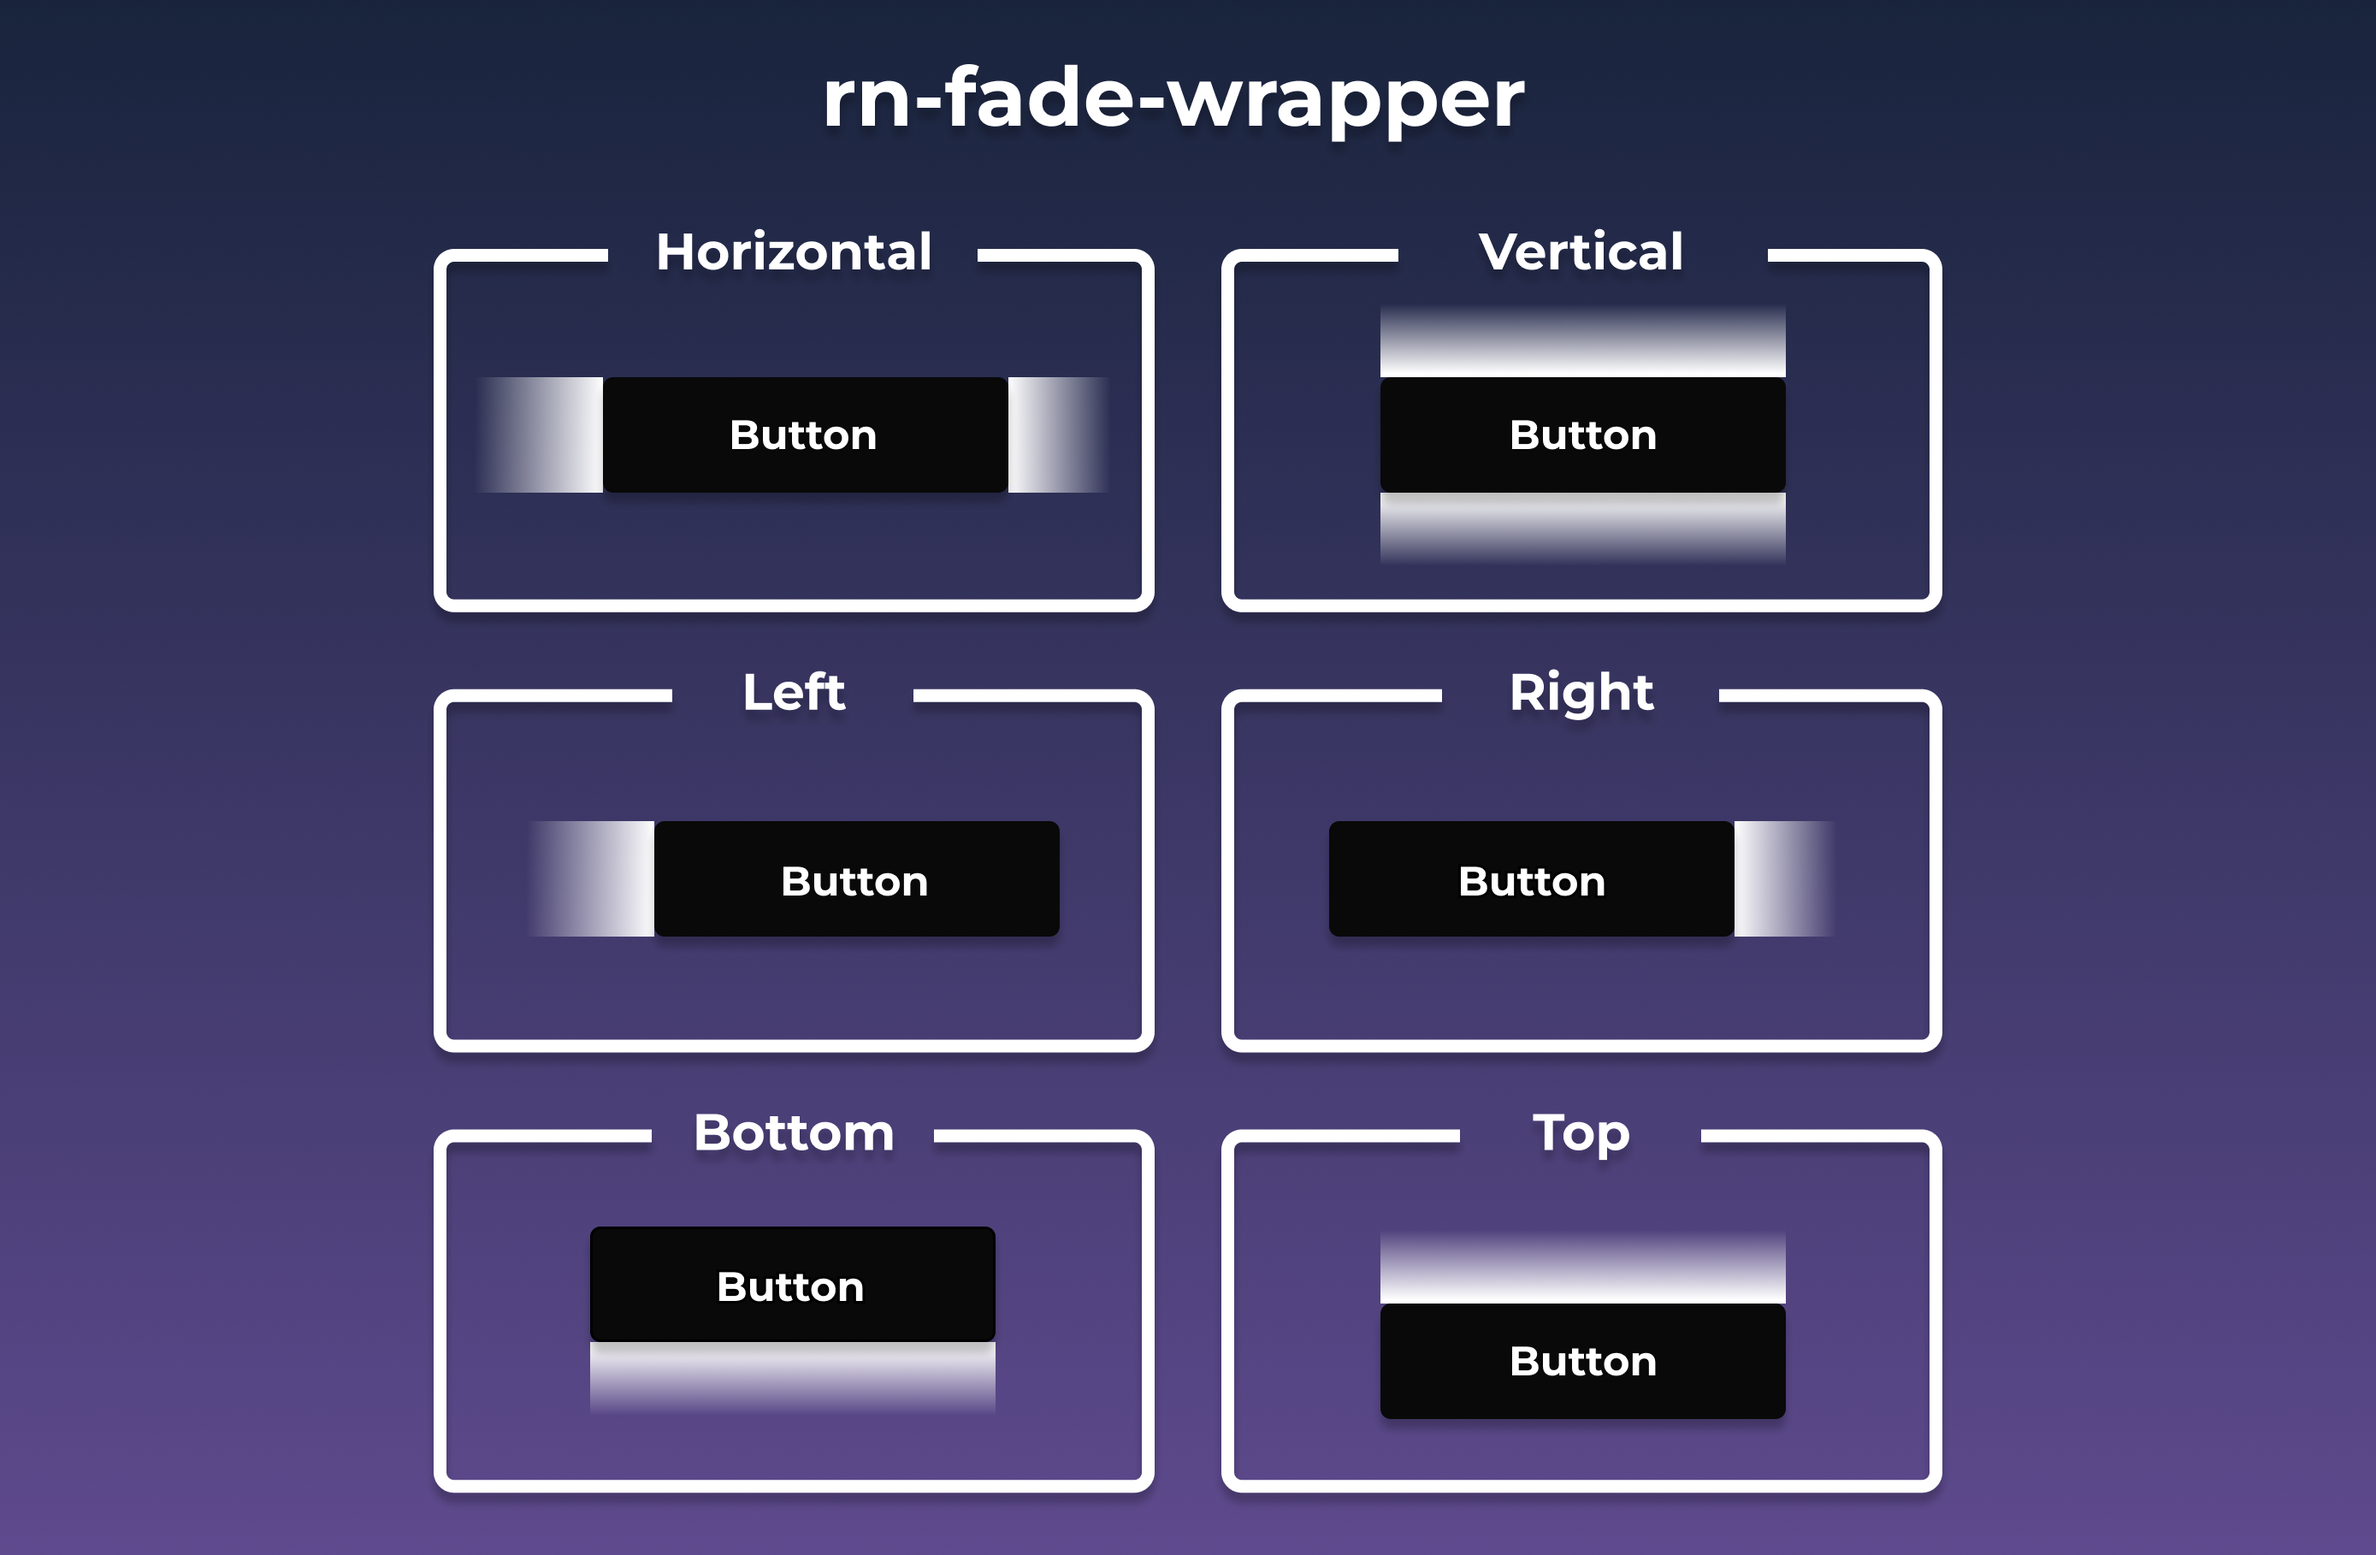
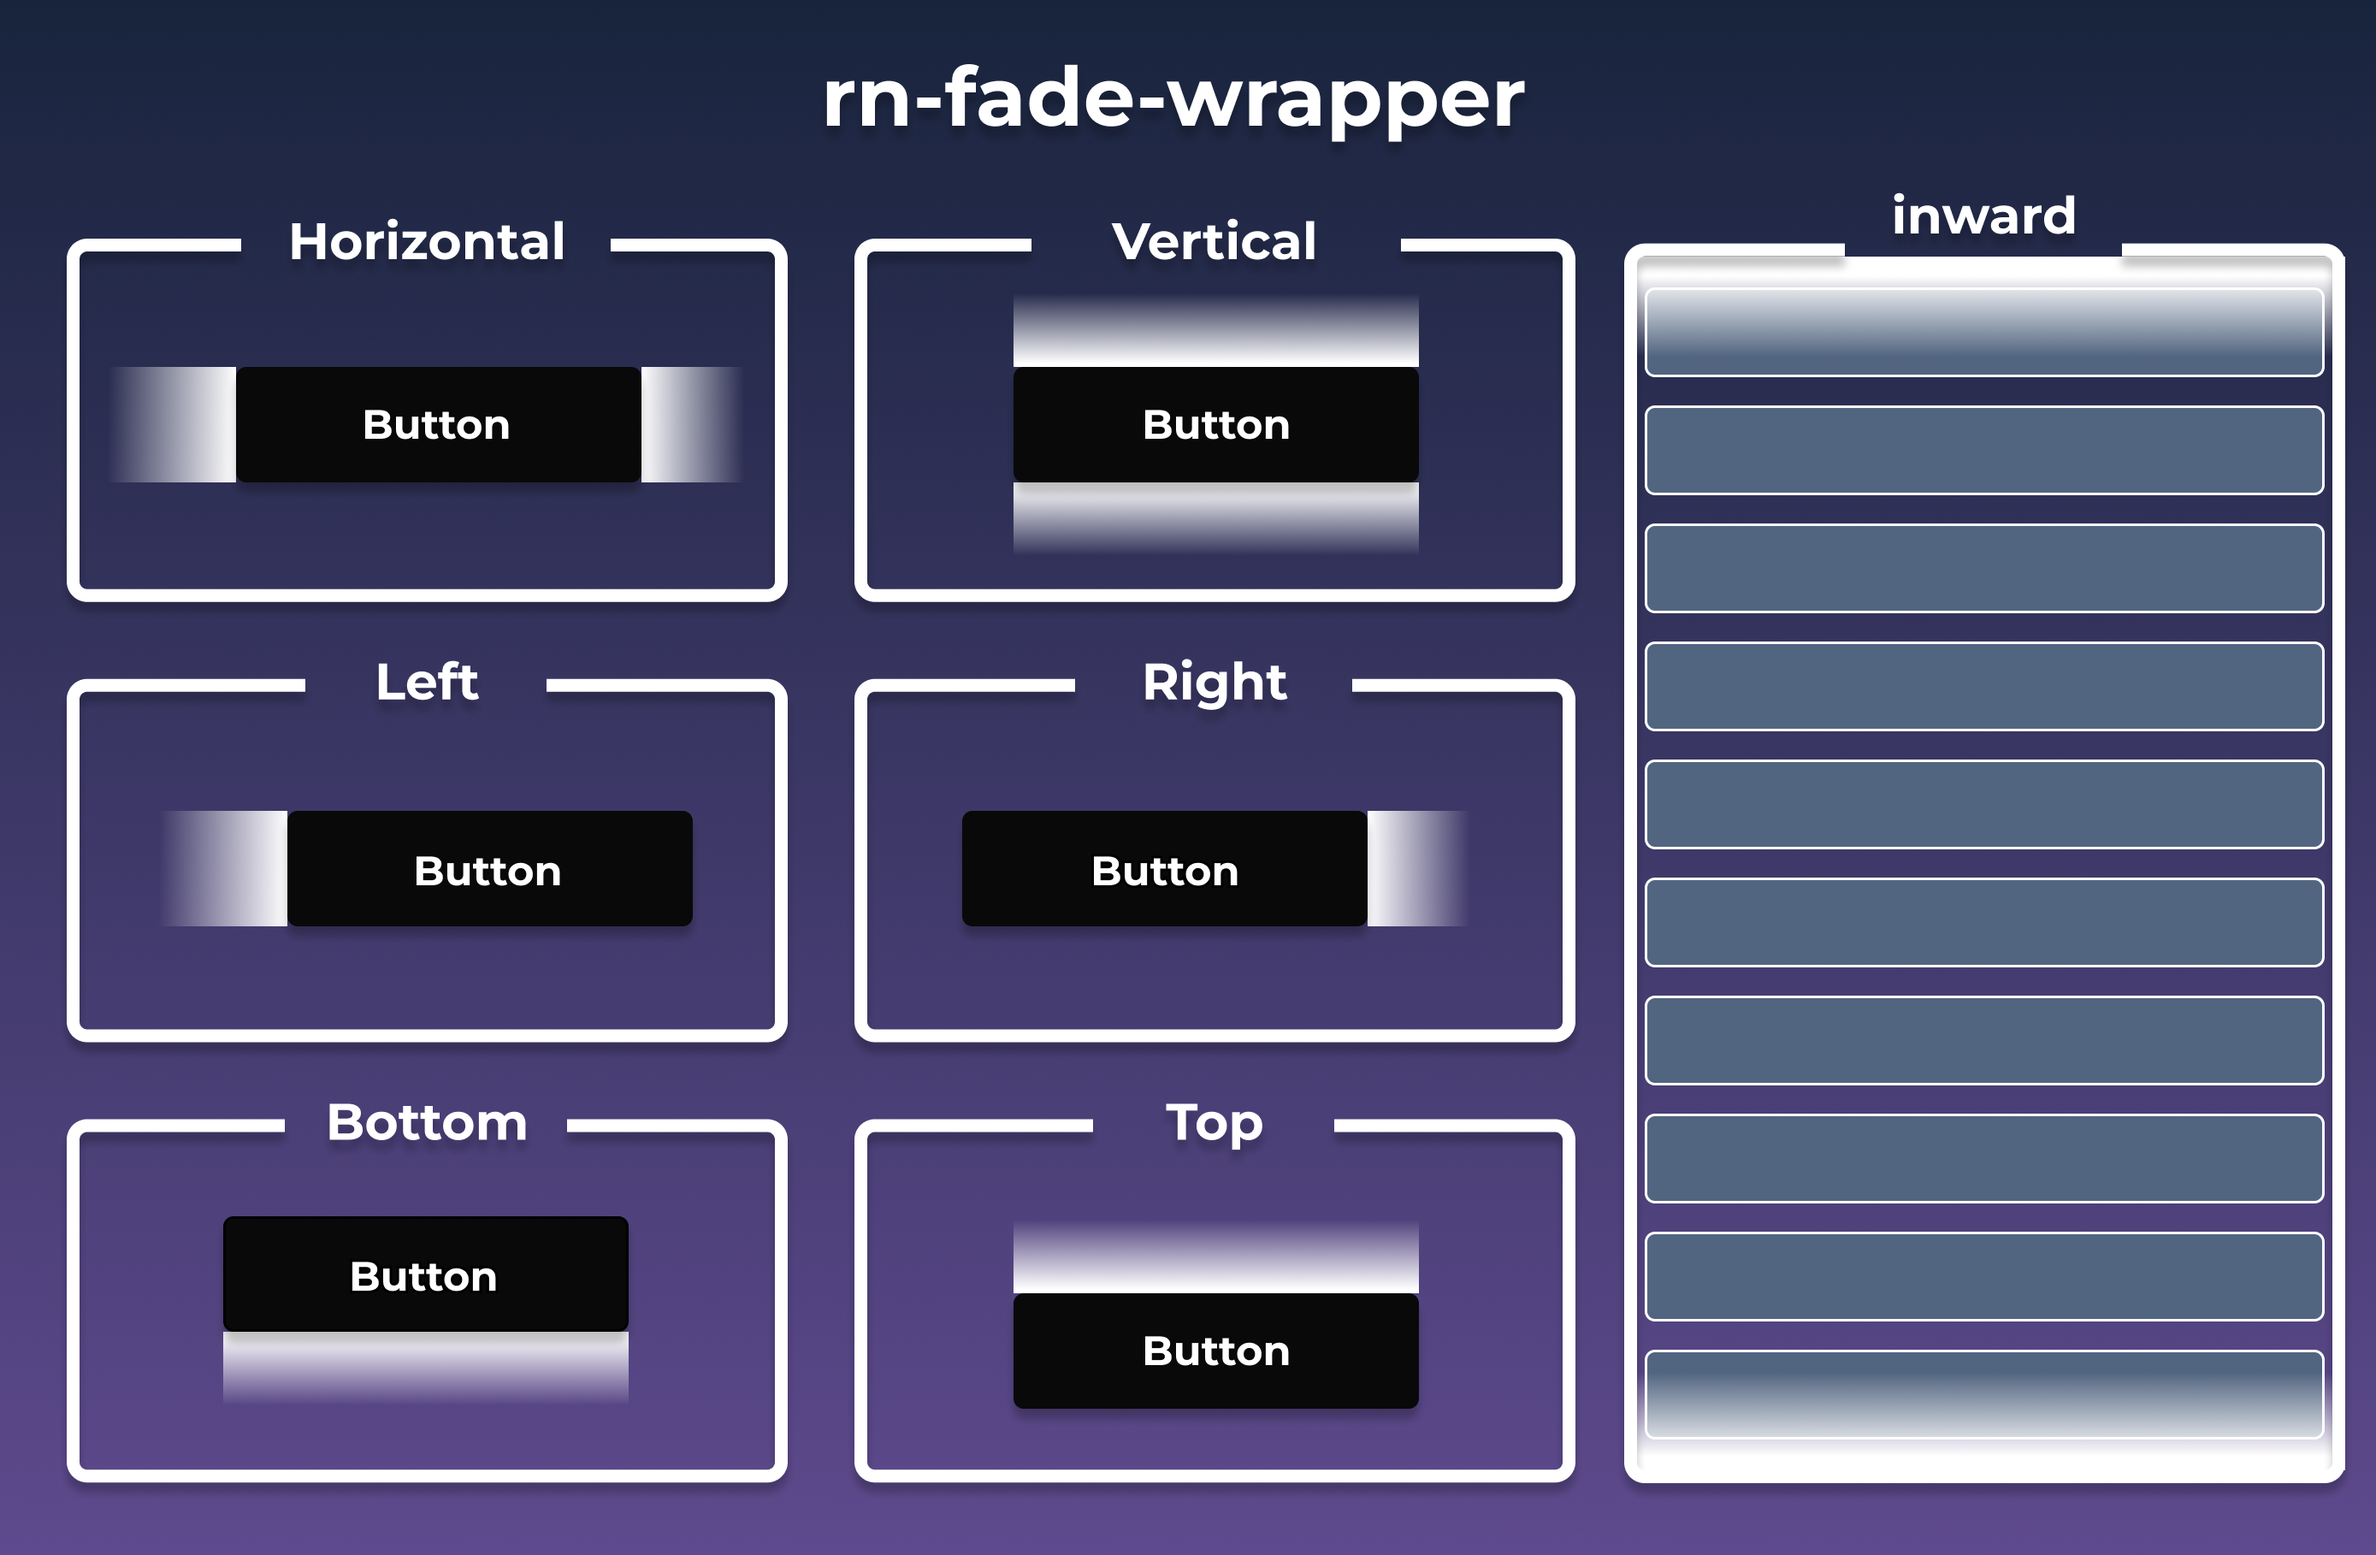
added inward prop

diff --git a/example/src/App.tsx b/example/src/App.tsx
@@ -5,6 +5,7 @@ import {
   Text,
   ScrollView,
   Dimensions,
+  FlatList,
 } from 'react-native';
 import { FadeWrapper } from 'rn-fade-wrapper';
 
@@ -32,57 +33,59 @@ export default function App() {
   return (
     <View style={styles.container}>
       <FadeWrapper
+        inward
+        size={20.0}
         color={'white'}
-        sizes={{ top: 50, bottom: 50, left: 50, right: 50 }}
-      >
-        <View
-          style={{
-            width: '100%',
-            backgroundColor: 'white',
-            alignSelf: 'center',
-            alignItems: 'center',
-            zIndex: 20,
-          }}
-        >
-          <Text>HEADER TITLE</Text>
-        </View>
-      </FadeWrapper>
-      <ScrollView style={{ flex: 1 }}>
-        {data.map((item, index) => (
-          <View
-            key={index}
-            style={{
-              width: '100%',
-              paddingVertical: 20,
-              paddingHorizontal: 10,
-              backgroundColor: 'grey',
-              marginTop: 10,
-            }}
-          >
-            <Text>{item}</Text>
-          </View>
-        ))}
-      </ScrollView>
-      <FadeWrapper
-        color={'white'}
+        // orientation={'horizontal'}
         sizes={{
-          top: 50,
+          top: 20,
+          right: 20,
+          bottom: 20,
+          left: 20,
         }}
+        // orientation="horizontal"
+        // sizes={{ right: 50 }}
+        // sizes={{
+        //   top: 20,
+        //   right: 20,
+        //   bottom: 20,
+        //   left: 20,
+        // }}
       >
-        <View
-          style={{
-            width: '100%',
-            // position: 'absolute',
-            // top: Dimensions.get('window').height - 80,
-            alignSelf: 'center',
-            backgroundColor: 'white',
-            // width: '100%',
-          }}
-        >
-          <TouchableOpacity style={styles.button}>
-            <Text style={{ color: 'white' }}>PRESS</Text>
-          </TouchableOpacity>
-        </View>
+        {/* <View style={styles.box} /> */}
+        <FlatList
+          data={data}
+          renderItem={({ item }) => (
+            <View
+              style={{
+                width: '100%',
+                paddingVertical: 20,
+                paddingHorizontal: 10,
+                backgroundColor: 'grey',
+                marginTop: 10,
+              }}
+            >
+              <Text>{item}</Text>
+            </View>
+          )}
+          keyExtractor={(item, index) => index.toString()}
+        />
+        {/* <ScrollView style={{ flex: 1, backgroundColor: 'red' }}>
+          {data.map((item, index) => (
+            <View
+              key={index}
+              style={{
+                width: '100%',
+                paddingVertical: 20,
+                paddingHorizontal: 10,
+                backgroundColor: 'grey',
+                marginTop: 10,
+              }}
+            >
+              <Text>{item}</Text>
+            </View>
+          ))}
+        </ScrollView> */}
       </FadeWrapper>
     </View>
   );
@@ -91,14 +94,14 @@ export default function App() {
 const styles = StyleSheet.create({
   container: {
     flexGrow: 1,
-    paddingTop: 50,
-    // alignItems: 'center',
-    // justifyContent: 'center',
+    paddingTop: 200,
   },
   box: {
-    width: 60,
-    height: 60,
-    marginVertical: 20,
+    width: 200,
+    height: 100,
+    // marginVertical: 20,
+    backgroundColor: 'green',
+    alignSelf: 'center',
   },
   button: {
     width: 200,

diff --git a/ios/FadeViewCore.swift b/ios/FadeViewCore.swift
@@ -37,7 +37,7 @@ public class FadeViewCore: UIView {
 
   public var fadeSizeRight = 0.0 {
     didSet {
-        updateSizeRight(size: fadeSizeRight)
+      updateSizeRight(size: fadeSizeRight)
     }
   }
 
@@ -59,6 +59,14 @@ public class FadeViewCore: UIView {
       width: containerBounds?.width ?? 0,
       height: size
     )
+
+    let isReversed = size < 0
+
+    let start = CGPoint(x: 0.5, y: 1)
+    let end = CGPoint(x: 0.5, y: 0)
+
+    gradientLayerTop.startPoint = isReversed ? end : start
+    gradientLayerTop.endPoint = isReversed ? start : end
   }
 
   private func updateSizeBottom(size: CGFloat) {
@@ -74,6 +82,14 @@ public class FadeViewCore: UIView {
       width: containerBounds?.width ?? 0,
       height: size
     )
+
+    let isReversed = size < 0
+
+    let start = CGPoint(x: 0.5, y: 0)
+    let end = CGPoint(x: 0.5, y: 1)
+
+    gradientLayerBottom.startPoint = isReversed ? end : start
+    gradientLayerBottom.endPoint = isReversed ? start : end
   }
 
   private func updateSizeRight(size: CGFloat) {
@@ -88,6 +104,14 @@ public class FadeViewCore: UIView {
       width: size,
       height: containerBounds?.height ?? 0
     )
+
+    let isReversed = size < 0
+
+    let start = CGPoint(x: 0, y: 0.5)
+    let end = CGPoint(x: 1, y: 0.5)
+
+    gradientLayerRight.startPoint = isReversed ? end : start
+    gradientLayerRight.endPoint = isReversed ? start : end
   }
 
   private func updateSizeLeft(size: CGFloat) {
@@ -102,6 +126,14 @@ public class FadeViewCore: UIView {
       width: size,
       height: containerBounds?.height ?? 0
     )
+
+    let isReversed = size < 0
+
+    let start = CGPoint(x: 1, y: 0.5)
+    let end = CGPoint(x: 0, y: 0.5)
+
+    gradientLayerLeft.startPoint = isReversed ? end : start
+    gradientLayerLeft.endPoint = isReversed ? start : end
   }
 
   var gradientColors: [CGColor] = [
@@ -179,7 +211,9 @@ public class FadeViewCore: UIView {
     self.updateSizeBottom(size: self.fadeSizeBottom)
     self.updateSizeLeft(size: self.fadeSizeLeft)
 
-    initShapeLayer()
+    if subview.layer.cornerRadius > 0 {
+      initShapeLayer()
+    }
 
     subview.layer.addSublayer(gradientLayerTop)
     subview.layer.addSublayer(gradientLayerBottom)

diff --git a/android/src/main/java/com/rnfadewrapper/RnFadeWrapperView.kt b/android/src/main/java/com/rnfadewrapper/RnFadeWrapperView.kt
@@ -31,10 +31,6 @@ class RnFadeWrapperView : ViewGroup {
   private var sizeBottom = 0f
   private var sizeLeft = 0f
 
-
-
-  private var subview: View? = null
-
   init {
     setWillNotDraw(false)
     paintTop.isAntiAlias = true
@@ -96,29 +92,24 @@ class RnFadeWrapperView : ViewGroup {
 
     if (tallest != null) {
 
-      if(subview == null){
-        subview = tallest
-      }
-
       val topF = tallest.top.toFloat()
       val rightF = tallest.right.toFloat()
       val bottomF = tallest.bottom.toFloat()
       val leftF = tallest.left.toFloat()
 
 
-      if (sizeTop > 0) {
-        val gradientTop = LinearGradient(
-          0f, topF, 0f, topF - sizeTop,
-          intArrayOf(fadeColor, Color.TRANSPARENT),
-          floatArrayOf(0f, 1f),
-          Shader.TileMode.CLAMP
-        )
-
-        paintTop.shader = gradientTop
-        canvas.drawRect(leftF, topF - sizeTop, rightF, topF, paintTop)
+      if (sizeTop != 0f) {
+          val gradientTop = LinearGradient(
+            0f, topF, 0f, topF - sizeTop,
+            intArrayOf(fadeColor, Color.TRANSPARENT),
+            floatArrayOf(0f, 1f),
+            Shader.TileMode.CLAMP
+          )
+          paintTop.shader = gradientTop
+          canvas.drawRect(leftF, topF - sizeTop, rightF, topF, paintTop)
       }
 
-      if (sizeRight > 0) {
+      if (sizeRight != 0f) {
         val gradientRight = LinearGradient(
           rightF, 0f, rightF + sizeRight, 0f,
           intArrayOf(fadeColor, Color.TRANSPARENT),
@@ -130,7 +121,7 @@ class RnFadeWrapperView : ViewGroup {
       }
 
 
-      if (sizeBottom > 0) {
+      if (sizeBottom != 0f) {
         val gradientBottom = LinearGradient(
           0f, bottomF, 0f, bottomF + sizeBottom,
           intArrayOf(fadeColor, Color.TRANSPARENT),
@@ -142,7 +133,7 @@ class RnFadeWrapperView : ViewGroup {
       }
 
 
-      if (sizeLeft > 0) {
+      if (sizeLeft != 0f) {
         val gradientLeft = LinearGradient(
           leftF, 0f, leftF - sizeLeft, 0f,
           intArrayOf(fadeColor, Color.TRANSPARENT),

diff --git a/src/index.tsx b/src/index.tsx
@@ -1,5 +1,6 @@
 import { useMemo } from 'react';
 import { default as RnFadeWrapperView__ } from './RnFadeWrapperViewNativeComponent';
+import { ViewStyle } from 'react-native';
 export * from './RnFadeWrapperViewNativeComponent';
 
 export enum FadeWrapperOrientation {
@@ -20,6 +21,8 @@ interface IProps {
   size?: number;
   sizes?: TFadeSizes;
   children: React.ReactNode;
+  inward?: boolean;
+  style?: ViewStyle;
 }
 
 const defaultStyle = {
@@ -46,8 +49,10 @@ export const FadeWrapper: React.FC<React.PropsWithChildren<IProps>> = ({
   size = 20,
   sizes,
   orientation = FadeWrapperOrientation.VERTICAL,
+  inward = false,
+  style,
 }) => {
-  const props = useMemo(() => {
+  const preparedSizes = () => {
     if (sizes) {
       return makePreset(
         sizes.top ?? 0,
@@ -66,10 +71,29 @@ export const FadeWrapper: React.FC<React.PropsWithChildren<IProps>> = ({
     }
 
     return makePreset(size, 0, size, 0);
-  }, [size, orientation, sizes]);
+  };
+
+  const withInward = useMemo(() => {
+    const __sizes = preparedSizes();
+
+    if (inward) {
+      return {
+        sizeTop: -__sizes.sizeTop,
+        sizeRight: -__sizes.sizeRight,
+        sizeBottom: -__sizes.sizeBottom,
+        sizeLeft: -__sizes.sizeLeft,
+      };
+    }
+    return __sizes;
+    // eslint-disable-next-line react-hooks/exhaustive-deps
+  }, [size, orientation, sizes, inward]);
+
+  const __style = useMemo(() => {
+    return [defaultStyle, style];
+  }, [style]);
 
   return (
-    <RnFadeWrapperView__ {...props} color={color} style={defaultStyle}>
+    <RnFadeWrapperView__ {...withInward} color={color} style={__style}>
       {children}
     </RnFadeWrapperView__>
   );

diff --git a/README.md b/README.md
@@ -45,9 +45,11 @@ const MyComponent = () => {
     <FadeWrapper
       color="#ffffff"
       size={24}
-      orientation={'vertical'} // default
+      orientation={"vertical"} // default
     >
-      <ScrollView>{/* your content */}</ScrollView>
+     <View>
+      <Text>...</Text>
+     </View>
     </FadeWrapper>
   );
 };
@@ -61,6 +63,7 @@ const MyComponent = () => {
 |--------------|----------------------------|----------------------|-------------|
 | `color`      | `string`                   | `"#ffffff"`          | Fade color (default is white) |
 | `size`       | `number`                   | `20`                 | Size of the fade in points |
+| `inward`       | `boolean`                   | `false`                 | Makes the gradient fade inward (toward the center) instead of outward |
 | `sizes`      | `{ top?: number, right?: number, bottom?: number, left?: number }` | `undefined` | Custom sizes for each side (overrides `size` and `orientation`) |
 | `orientation`| `'horizontal'` \| `'vertical'` | `'vertical'`     | Directional preset: adds fade to left/right or top/bottom |
 | `children`   | `React.ReactNode`          | —                    | Wrapped content |
@@ -76,19 +79,20 @@ const MyComponent = () => {
 ```tsx
 <FadeWrapper
   color="black"
+  inward
   sizes={{ top: 20, bottom: 30 }}
 >
   <FlatList ... />
 </FadeWrapper>
 ```
 
-### Horizontal fade:
+### ScrollView fade:
 
 ```tsx
 <FadeWrapper
   color="rgba(0,0,0,0.5)"
   size={16}
-  orientation={'horizontal'}
+  inward
 >
   <ScrollView horizontal ... />
 </FadeWrapper>
